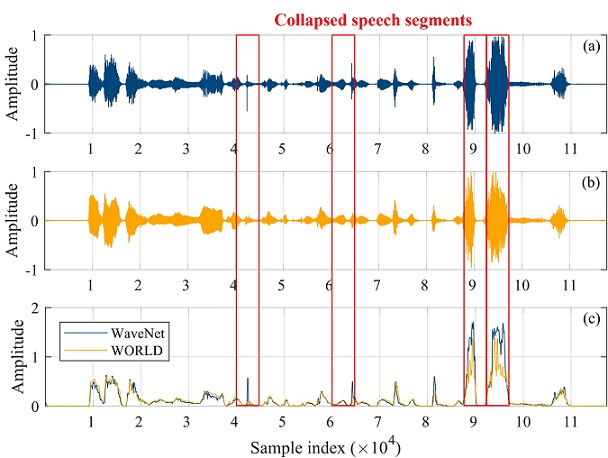
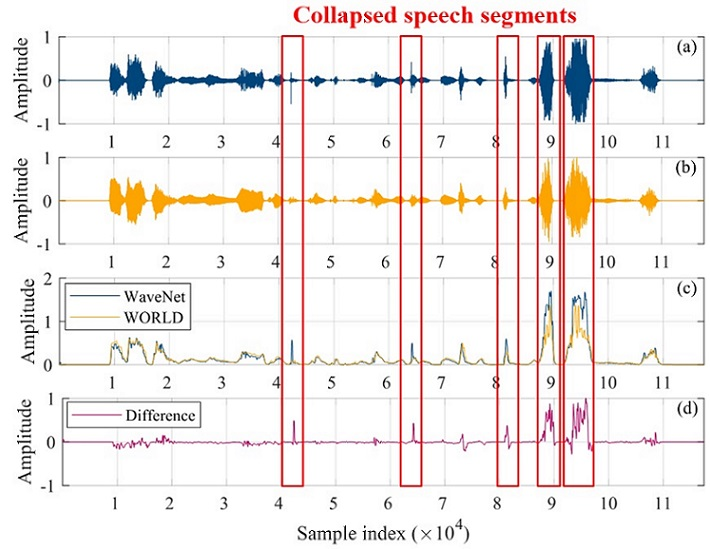
update figures and paper link

Changed region(s): [[0.0, 0.0, 1.0, 1.0]]

diff --git a/_site/index.html b/_site/index.html
@@ -32,22 +32,22 @@
       <div class="wrapper">
         <p>This page is the demo of</p>
 <ol>
-  <li>“Non-parallel voice conversion system with WaveNet vocoder and collapsed speech suppression technique” [paper]</li>
+  <li>“Non-parallel voice conversion system with WaveNet vocoder and collapsed speech suppression” [<a href="https://arxiv.org/abs/2003.11750">paper</a>]</li>
   <li>“Collapsed speech segment detection and suppression for WaveNet vocoder” [<a href="https://arxiv.org/abs/1804.11055">paper</a>] [code]</li>
   <li>“The NU non-parallel voice conversion system for the voice conversion challenge 2018” [<a href="https://easychair.org/publications/preprint/mzNP">paper</a>]</li>
 </ol>
 
 <h2 id="abstract"><strong>Abstract</strong></h2>
-<p align="justify"> We propose a non-parallel voice conversion (VC) system with a WaveNet (WN) vocoder and a collapsed speech suppression technique. The effectiveness of WN as a vocoder to generate high-fidelity speech waveforms on the basis of acoustic features has been confirmed in recent works. However, while combining the WN vocoder with the VC system, the distorted acoustic features, acoustic and temporal mismatches, and exposure bias problems usually lead to significant speech quality degradation especially making WN generate some very noisy speech segments called a collapsed speech. To tackle the problem, we take conventional vocoder generated speech as the reference speech to derive a linear-predictive-coding-distribution-constraint (LPCDC) to prevent WN from the collapsed speech problem. Furthermore, to ease the extra negative effects introduced by LPCDC, we propose a collapsed speech segment detector (CSSD) for only applying the LPCDC to the problematic segments to restrict the quality damage in a very short period. </p>
+<p align="justify"> We integrate a simple non-parallel voice conversion (VC) system with a WaveNet (WN) vocoder and a proposed collapsed speech suppression technique. The effectiveness of WN as a vocoder for generating high-fidelity speech waveforms on the basis of acoustic features has been confirmed in recent works. However, when combining the WN vocoder with a VC system, the distorted acoustic features, acoustic and temporal mismatches, and exposure bias usually lead to significant speech quality degradation, making WN generate some very noisy speech segments called collapsed speech. To tackle the problem, we take conventional-vocoder-generated speech as the reference speech to derive a linear predictive coding distribution constraint (LPCDC) to avoid the collapsed speech problem. Furthermore, to mitigate the negative effects introduced by the LPCDC, we propose a collapsed speech segment detector (CSSD) to ensure that the LPCDC is only applied to the problematic segments to limit the loss of quality to short periods. </p>
 <p>Testing corpus: <a href="http://www.vc-challenge.org/">VCC2018</a></p>
 
-<h2 id="collapse-speech-problem"><strong>Collapse speech problem</strong></h2>
+<h2 id="collapsed-speech-problem"><strong>Collapsed speech problem</strong></h2>
 <ul>
   <li><strong>Type I</strong>: white-noise-like segment</li>
   <li><strong>Type II</strong>: short impulse noise</li>
 </ul>
 <center><img src="res/figure/collapsed_speech_problem.jpg" /></center>
-<p>Figure (a): WN-generated waveforms w/ the collapsed speech<br />
+<p>Figure (a): WN-generated waveforms w/ collapsed speech.<br />
 Figure (b): WN-generated waveforms w/ LPCDC and CSSD.</p>
 
 <h2 id="collapsed-speech-segment-detection-cssd"><strong>Collapsed speech segment detection (CSSD)</strong></h2>
@@ -59,9 +59,10 @@ Figure (b): WN-generated waveforms w/ LPCDC and CSSD.</p>
   <li>Compared with the reference</li>
 </ul>
 <center><img src="res/figure/waveform_comparison.jpg" /></center>
-<p>Figure (a): WN-generated waveforms w/ the collapsed speech<br />
-Figure (b): WORLD-generated waveforms (reference)<br />
-Figure (c): Detected waveform shapes</p>
+<p>Figure (a): WN-generated waveforms w/ collapsed speech.<br />
+Figure (b): WORLD-generated waveforms (reference).<br />
+Figure (c): Extracted waveform envelopes.<br />
+Figure (d): Difference in waveform envelope.</p>
 
 <h2 id="lpc-distribution-constraint-lpcdc"><strong>LPC distribution constraint (LPCDC)</strong></h2>
 <ul>
@@ -115,12 +116,12 @@ Figure (c): Detected waveform shapes</p>
       <td style="text-align: center"><audio src="res/audio/CollapsedFree/VCC2SM3-VCC2TM1/DNN+WN/30021.wav" controls="" preload=""></audio></td>
     </tr>
     <tr>
-      <td style="text-align: left">DMDN + WN</td>
+      <td style="text-align: left"><strong>DMDN + WN</strong></td>
       <td style="text-align: center"><audio src="res/audio/CollapsedFree/VCC2SF4-VCC2TF1/DMDN+WN/30023.wav" controls="" preload=""></audio></td>
       <td style="text-align: center"><audio src="res/audio/CollapsedFree/VCC2SM3-VCC2TM1/DMDN+WN/30021.wav" controls="" preload=""></audio></td>
     </tr>
     <tr>
-      <td style="text-align: left">DMDN + WD</td>
+      <td style="text-align: left">DMDN + WORLD</td>
       <td style="text-align: center"><audio src="res/audio/CollapsedFree/VCC2SF4-VCC2TF1/DMDN+WD/30023.wav" controls="" preload=""></audio></td>
       <td style="text-align: center"><audio src="res/audio/CollapsedFree/VCC2SM3-VCC2TM1/DMDN+WD/30021.wav" controls="" preload=""></audio></td>
     </tr>
@@ -145,7 +146,7 @@ Figure (c): Detected waveform shapes</p>
       <td style="text-align: center"><audio src="res/audio/Collapsed/VCC2SM3-VCC2TM1/DMDN+WN/30033.wav" controls="" preload=""></audio></td>
     </tr>
     <tr>
-      <td style="text-align: left">DMDN + WD</td>
+      <td style="text-align: left">DMDN + WORLD</td>
       <td style="text-align: center"><audio src="res/audio/Collapsed/VCC2SF4-VCC2TF1/DMDN+WD/30005.wav" controls="" preload=""></audio></td>
       <td style="text-align: center"><audio src="res/audio/Collapsed/VCC2SM3-VCC2TM1/DMDN+WD/30033.wav" controls="" preload=""></audio></td>
     </tr>
@@ -155,7 +156,7 @@ Figure (c): Detected waveform shapes</p>
       <td style="text-align: center"><audio src="res/audio/Collapsed/VCC2SM3-VCC2TM1/DMDN+LPCDC/30033.wav" controls="" preload=""></audio></td>
     </tr>
     <tr>
-      <td style="text-align: left">Proposed</td>
+      <td style="text-align: left"><strong>DMDN + LPCDC + CSSD</strong></td>
       <td style="text-align: center"><audio src="res/audio/Collapsed/VCC2SF4-VCC2TF1/Proposed/30005.wav" controls="" preload=""></audio></td>
       <td style="text-align: center"><audio src="res/audio/Collapsed/VCC2SM3-VCC2TM1/Proposed/30033.wav" controls="" preload=""></audio></td>
     </tr>
@@ -202,12 +203,12 @@ Figure (c): Detected waveform shapes</p>
       <td style="text-align: center"><audio src="res/audio/CollapsedFree/VCC2SM4-VCC2TF2/DNN+WN/30019.wav" controls="" preload=""></audio></td>
     </tr>
     <tr>
-      <td style="text-align: left">DMDN + WN</td>
+      <td style="text-align: left"><strong>DMDN + WN</strong></td>
       <td style="text-align: center"><audio src="res/audio/CollapsedFree/VCC2SF3-VCC2TM2/DMDN+WN/30003.wav" controls="" preload=""></audio></td>
       <td style="text-align: center"><audio src="res/audio/CollapsedFree/VCC2SM4-VCC2TF2/DMDN+WN/30019.wav" controls="" preload=""></audio></td>
     </tr>
     <tr>
-      <td style="text-align: left">DMDN + WD</td>
+      <td style="text-align: left">DMDN + WORLD</td>
       <td style="text-align: center"><audio src="res/audio/CollapsedFree/VCC2SF3-VCC2TM2/DMDN+WD/30003.wav" controls="" preload=""></audio></td>
       <td style="text-align: center"><audio src="res/audio/CollapsedFree/VCC2SM4-VCC2TF2/DMDN+WD/30019.wav" controls="" preload=""></audio></td>
     </tr>
@@ -232,7 +233,7 @@ Figure (c): Detected waveform shapes</p>
       <td style="text-align: center"><audio src="res/audio/Collapsed/VCC2SM4-VCC2TF2/DMDN+WN/30005.wav" controls="" preload=""></audio></td>
     </tr>
     <tr>
-      <td style="text-align: left">DMDN + WD</td>
+      <td style="text-align: left">DMDN + WORLD</td>
       <td style="text-align: center"><audio src="res/audio/Collapsed/VCC2SF3-VCC2TM2/DMDN+WD/30017.wav" controls="" preload=""></audio></td>
       <td style="text-align: center"><audio src="res/audio/Collapsed/VCC2SM4-VCC2TF2/DMDN+WD/30005.wav" controls="" preload=""></audio></td>
     </tr>
@@ -242,7 +243,7 @@ Figure (c): Detected waveform shapes</p>
       <td style="text-align: center"><audio src="res/audio/Collapsed/VCC2SM4-VCC2TF2/DMDN+LPCDC/30005.wav" controls="" preload=""></audio></td>
     </tr>
     <tr>
-      <td style="text-align: left">Proposed</td>
+      <td style="text-align: left"><strong>DMDN + LPCDC + CSSD</strong></td>
       <td style="text-align: center"><audio src="res/audio/Collapsed/VCC2SF3-VCC2TM2/Proposed/30017.wav" controls="" preload=""></audio></td>
       <td style="text-align: center"><audio src="res/audio/Collapsed/VCC2SM4-VCC2TF2/Proposed/30005.wav" controls="" preload=""></audio></td>
     </tr>
@@ -251,12 +252,12 @@ Figure (c): Detected waveform shapes</p>
 
 <p><br /></p>
 <ul>
-  <li>Subjective results I: <strong>MOS</strong></li>
+  <li>Subjective evaluation I: <strong>MOS</strong> of naturalness.</li>
 </ul>
 <center><img src="res/figure/MOS.jpg" /></center>
 <p><br /></p>
 <ul>
-  <li>Subjective results II: <strong>Similarity</strong></li>
+  <li>Subjective evaluation II: <strong>Speaker similarity</strong></li>
 </ul>
 <center><img src="res/figure/Similarity.jpg" /></center>
 

diff --git a/index.md b/index.md
@@ -2,19 +2,19 @@
 layout: default
 ---
 This page is the demo of
-1. "Non-parallel voice conversion system with WaveNet vocoder and collapsed speech suppression technique" [paper]   
+1. "Non-parallel voice conversion system with WaveNet vocoder and collapsed speech suppression" [[paper](https://arxiv.org/abs/2003.11750)]   
 2. "Collapsed speech segment detection and suppression for WaveNet vocoder" [[paper](https://arxiv.org/abs/1804.11055)] [code]  
 3. "The NU non-parallel voice conversion system for the voice conversion challenge 2018" [[paper](https://easychair.org/publications/preprint/mzNP)]  
 
 ## **Abstract**  
-<p align="justify"> We propose a non-parallel voice conversion (VC) system with a WaveNet (WN) vocoder and a collapsed speech suppression technique. The effectiveness of WN as a vocoder to generate high-fidelity speech waveforms on the basis of acoustic features has been confirmed in recent works. However, while combining the WN vocoder with the VC system, the distorted acoustic features, acoustic and temporal mismatches, and exposure bias problems usually lead to significant speech quality degradation especially making WN generate some very noisy speech segments called a collapsed speech. To tackle the problem, we take conventional vocoder generated speech as the reference speech to derive a linear-predictive-coding-distribution-constraint (LPCDC) to prevent WN from the collapsed speech problem. Furthermore, to ease the extra negative effects introduced by LPCDC, we propose a collapsed speech segment detector (CSSD) for only applying the LPCDC to the problematic segments to restrict the quality damage in a very short period. </p>
+<p align="justify"> We integrate a simple non-parallel voice conversion (VC) system with a WaveNet (WN) vocoder and a proposed collapsed speech suppression technique. The effectiveness of WN as a vocoder for generating high-fidelity speech waveforms on the basis of acoustic features has been confirmed in recent works. However, when combining the WN vocoder with a VC system, the distorted acoustic features, acoustic and temporal mismatches, and exposure bias usually lead to significant speech quality degradation, making WN generate some very noisy speech segments called collapsed speech. To tackle the problem, we take conventional-vocoder-generated speech as the reference speech to derive a linear predictive coding distribution constraint (LPCDC) to avoid the collapsed speech problem. Furthermore, to mitigate the negative effects introduced by the LPCDC, we propose a collapsed speech segment detector (CSSD) to ensure that the LPCDC is only applied to the problematic segments to limit the loss of quality to short periods. </p>
 Testing corpus: [VCC2018](http://www.vc-challenge.org/)  
 
-## **Collapse speech problem**  
+## **Collapsed speech problem**  
 - **Type I**: white-noise-like segment
 - **Type II**: short impulse noise
 <center><img src="res/figure/collapsed_speech_problem.jpg" ></center>  
-Figure (a): WN-generated waveforms w/ the collapsed speech  
+Figure (a): WN-generated waveforms w/ collapsed speech.  
 Figure (b): WN-generated waveforms w/ LPCDC and CSSD.
 
 ## **Collapsed speech segment detection (CSSD)**  
@@ -22,9 +22,10 @@ Figure (b): WN-generated waveforms w/ LPCDC and CSSD.
 <center><img src="res/figure/waveform_envelope_extraction.jpg" ></center>  
 - Compared with the reference 
 <center><img src="res/figure/waveform_comparison.jpg" ></center>  
-Figure (a): WN-generated waveforms w/ the collapsed speech  
-Figure (b): WORLD-generated waveforms (reference)  
-Figure (c): Detected waveform shapes
+Figure (a): WN-generated waveforms w/ collapsed speech.  
+Figure (b): WORLD-generated waveforms (reference).  
+Figure (c): Extracted waveform envelopes.  
+Figure (d): Difference in waveform envelope.  
 
 ## **LPC distribution constraint (LPCDC)**  
 - Constrain the WN-predicted PMF with the LPC PMF
@@ -38,48 +39,48 @@ Figure (c): Detected waveform shapes
 ## **Speaker voice conversion (Non-parallel)**
 - **Intra** gender conversion
 
-| Vocoder       | Female (SF4->TF1)                                                                                   | Male (SM3->TM1)                                                                                     |
-|:--------------|:---------------------------------------------------------------------------------------------------:|:---------------------------------------------------------------------------------------------------:|
-| **Source**    | <audio src="res/audio/Natural/SF4/30005.wav" controls preload></audio>                              | <audio src="res/audio/Natural/SM3/30033.wav" controls preload></audio>                              |
-| **Target**    | <audio src="res/audio/Natural/TF1/30005.wav" controls preload></audio>                              | <audio src="res/audio/Natural/TM1/30033.wav" controls preload></audio>                              |
-| Target + WN   | <audio src="res/audio/WaveNet/TF1/30005.wav" controls preload></audio>                              | <audio src="res/audio/WaveNet/TM1/30033.wav" controls preload></audio>                              |
-|               |                                          **Collapsed-free**                                         |                                          **Collapsed-free**                                         |
-| DNN + WN      | <audio src="res/audio/CollapsedFree/VCC2SF4-VCC2TF1/DNN+WN/30023.wav" controls preload></audio>     | <audio src="res/audio/CollapsedFree/VCC2SM3-VCC2TM1/DNN+WN/30021.wav" controls preload></audio>     |
-| DMDN + WN     | <audio src="res/audio/CollapsedFree/VCC2SF4-VCC2TF1/DMDN+WN/30023.wav" controls preload></audio>    | <audio src="res/audio/CollapsedFree/VCC2SM3-VCC2TM1/DMDN+WN/30021.wav" controls preload></audio>    |
-| DMDN + WD     | <audio src="res/audio/CollapsedFree/VCC2SF4-VCC2TF1/DMDN+WD/30023.wav" controls preload></audio>    | <audio src="res/audio/CollapsedFree/VCC2SM3-VCC2TM1/DMDN+WD/30021.wav" controls preload></audio>    |
-| DMDN + LPCDC  | <audio src="res/audio/CollapsedFree/VCC2SF4-VCC2TF1/DMDN+LPCDC/30023.wav" controls preload></audio> | <audio src="res/audio/CollapsedFree/VCC2SM3-VCC2TM1/DMDN+LPCDC/30021.wav" controls preload></audio> |
-|               |                                            **Collapsed**                                            |                                            **Collapsed**                                            |
-| DNN + WN      | <audio src="res/audio/Collapsed/VCC2SF4-VCC2TF1/DNN+WN/30005.wav" controls preload></audio>         | <audio src="res/audio/Collapsed/VCC2SM3-VCC2TM1/DNN+WN/30033.wav" controls preload></audio>         |
-| DMDN + WN     | <audio src="res/audio/Collapsed/VCC2SF4-VCC2TF1/DMDN+WN/30005.wav" controls preload></audio>        | <audio src="res/audio/Collapsed/VCC2SM3-VCC2TM1/DMDN+WN/30033.wav" controls preload></audio>        |
-| DMDN + WD     | <audio src="res/audio/Collapsed/VCC2SF4-VCC2TF1/DMDN+WD/30005.wav" controls preload></audio>        | <audio src="res/audio/Collapsed/VCC2SM3-VCC2TM1/DMDN+WD/30033.wav" controls preload></audio>        |
-| DMDN + LPCDC  | <audio src="res/audio/Collapsed/VCC2SF4-VCC2TF1/DMDN+LPCDC/30005.wav" controls preload></audio>     | <audio src="res/audio/Collapsed/VCC2SM3-VCC2TM1/DMDN+LPCDC/30033.wav" controls preload></audio>     |
-| Proposed      | <audio src="res/audio/Collapsed/VCC2SF4-VCC2TF1/Proposed/30005.wav" controls preload></audio>       | <audio src="res/audio/Collapsed/VCC2SM3-VCC2TM1/Proposed/30033.wav" controls preload></audio>       |
+| Vocoder | Female (SF4->TF1) | Male (SM3->TM1) |
+|:--------|:-----------------:|:---------------:|
+| **Source** | <audio src="res/audio/Natural/SF4/30005.wav" controls preload></audio> | <audio src="res/audio/Natural/SM3/30033.wav" controls preload></audio> |
+| **Target** | <audio src="res/audio/Natural/TF1/30005.wav" controls preload></audio> | <audio src="res/audio/Natural/TM1/30033.wav" controls preload></audio> |
+| Target + WN | <audio src="res/audio/WaveNet/TF1/30005.wav" controls preload></audio> | <audio src="res/audio/WaveNet/TM1/30033.wav" controls preload></audio> |
+|  | **Collapsed-free** | **Collapsed-free** |
+| DNN + WN | <audio src="res/audio/CollapsedFree/VCC2SF4-VCC2TF1/DNN+WN/30023.wav" controls preload></audio> | <audio src="res/audio/CollapsedFree/VCC2SM3-VCC2TM1/DNN+WN/30021.wav" controls preload></audio> |
+| **DMDN + WN** | <audio src="res/audio/CollapsedFree/VCC2SF4-VCC2TF1/DMDN+WN/30023.wav" controls preload></audio> | <audio src="res/audio/CollapsedFree/VCC2SM3-VCC2TM1/DMDN+WN/30021.wav" controls preload></audio> |
+| DMDN + WORLD | <audio src="res/audio/CollapsedFree/VCC2SF4-VCC2TF1/DMDN+WD/30023.wav" controls preload></audio> | <audio src="res/audio/CollapsedFree/VCC2SM3-VCC2TM1/DMDN+WD/30021.wav" controls preload></audio> |
+| DMDN + LPCDC | <audio src="res/audio/CollapsedFree/VCC2SF4-VCC2TF1/DMDN+LPCDC/30023.wav" controls preload></audio> | <audio src="res/audio/CollapsedFree/VCC2SM3-VCC2TM1/DMDN+LPCDC/30021.wav" controls preload></audio> |
+|  | **Collapsed** | **Collapsed** |
+| DNN + WN | <audio src="res/audio/Collapsed/VCC2SF4-VCC2TF1/DNN+WN/30005.wav" controls preload></audio> | <audio src="res/audio/Collapsed/VCC2SM3-VCC2TM1/DNN+WN/30033.wav" controls preload></audio> |
+| DMDN + WN | <audio src="res/audio/Collapsed/VCC2SF4-VCC2TF1/DMDN+WN/30005.wav" controls preload></audio> | <audio src="res/audio/Collapsed/VCC2SM3-VCC2TM1/DMDN+WN/30033.wav" controls preload></audio> |
+| DMDN + WORLD | <audio src="res/audio/Collapsed/VCC2SF4-VCC2TF1/DMDN+WD/30005.wav" controls preload></audio> | <audio src="res/audio/Collapsed/VCC2SM3-VCC2TM1/DMDN+WD/30033.wav" controls preload></audio> |
+| DMDN + LPCDC | <audio src="res/audio/Collapsed/VCC2SF4-VCC2TF1/DMDN+LPCDC/30005.wav" controls preload></audio> | <audio src="res/audio/Collapsed/VCC2SM3-VCC2TM1/DMDN+LPCDC/30033.wav" controls preload></audio> |
+|  **DMDN + LPCDC + CSSD** | <audio src="res/audio/Collapsed/VCC2SF4-VCC2TF1/Proposed/30005.wav" controls preload></audio> | <audio src="res/audio/Collapsed/VCC2SM3-VCC2TM1/Proposed/30033.wav" controls preload></audio> |
 
 <br />  
 - **Inter** gender conversion
 
-| Vocoder       | Female (SF3->TM2)                                                                                   | Male (SM4->TF2)                                                                                     |
-|:--------------|:---------------------------------------------------------------------------------------------------:|:---------------------------------------------------------------------------------------------------:|
-| **Source**    | <audio src="res/audio/Natural/SF3/30017.wav" controls preload></audio>                              | <audio src="res/audio/Natural/SM4/30019.wav" controls preload></audio>                              |
-| **Target**    | <audio src="res/audio/Natural/TM2/30017.wav" controls preload></audio>                              | <audio src="res/audio/Natural/TF2/30019.wav" controls preload></audio>                              |
-| Target + WN   | <audio src="res/audio/WaveNet/TM2/30017.wav" controls preload></audio>                              | <audio src="res/audio/WaveNet/TF2/30019.wav" controls preload></audio>                              |
-|               |                                          **Collapsed-free**                                         |                                          **Collapsed-free**                                         |
-| DNN + WN      | <audio src="res/audio/CollapsedFree/VCC2SF3-VCC2TM2/DNN+WN/30003.wav" controls preload></audio>     | <audio src="res/audio/CollapsedFree/VCC2SM4-VCC2TF2/DNN+WN/30019.wav" controls preload></audio>     |
-| DMDN + WN     | <audio src="res/audio/CollapsedFree/VCC2SF3-VCC2TM2/DMDN+WN/30003.wav" controls preload></audio>    | <audio src="res/audio/CollapsedFree/VCC2SM4-VCC2TF2/DMDN+WN/30019.wav" controls preload></audio>    |
-| DMDN + WD     | <audio src="res/audio/CollapsedFree/VCC2SF3-VCC2TM2/DMDN+WD/30003.wav" controls preload></audio>    | <audio src="res/audio/CollapsedFree/VCC2SM4-VCC2TF2/DMDN+WD/30019.wav" controls preload></audio>    |
-| DMDN + LPCDC  | <audio src="res/audio/CollapsedFree/VCC2SF3-VCC2TM2/DMDN+LPCDC/30003.wav" controls preload></audio> | <audio src="res/audio/CollapsedFree/VCC2SM4-VCC2TF2/DMDN+LPCDC/30019.wav" controls preload></audio> |
-|               |                                            **Collapsed**                                            |                                            **Collapsed**                                            |
-| DNN + WN      | <audio src="res/audio/Collapsed/VCC2SF3-VCC2TM2/DNN+WN/30017.wav" controls preload></audio>         | <audio src="res/audio/Collapsed/VCC2SM4-VCC2TF2/DNN+WN/30005.wav" controls preload></audio>         |
-| DMDN + WN     | <audio src="res/audio/Collapsed/VCC2SF3-VCC2TM2/DMDN+WN/30017.wav" controls preload></audio>        | <audio src="res/audio/Collapsed/VCC2SM4-VCC2TF2/DMDN+WN/30005.wav" controls preload></audio>        |
-| DMDN + WD     | <audio src="res/audio/Collapsed/VCC2SF3-VCC2TM2/DMDN+WD/30017.wav" controls preload></audio>        | <audio src="res/audio/Collapsed/VCC2SM4-VCC2TF2/DMDN+WD/30005.wav" controls preload></audio>        |
-| DMDN + LPCDC  | <audio src="res/audio/Collapsed/VCC2SF3-VCC2TM2/DMDN+LPCDC/30017.wav" controls preload></audio>     | <audio src="res/audio/Collapsed/VCC2SM4-VCC2TF2/DMDN+LPCDC/30005.wav" controls preload></audio>     |
-| Proposed      | <audio src="res/audio/Collapsed/VCC2SF3-VCC2TM2/Proposed/30017.wav" controls preload></audio>       | <audio src="res/audio/Collapsed/VCC2SM4-VCC2TF2/Proposed/30005.wav" controls preload></audio>       |
+| Vocoder | Female (SF3->TM2) | Male (SM4->TF2) |
+|:--------|:-----------------:|:---------------:|
+| **Source** | <audio src="res/audio/Natural/SF3/30017.wav" controls preload></audio> | <audio src="res/audio/Natural/SM4/30019.wav" controls preload></audio> |
+| **Target** | <audio src="res/audio/Natural/TM2/30017.wav" controls preload></audio> | <audio src="res/audio/Natural/TF2/30019.wav" controls preload></audio> |
+| Target + WN | <audio src="res/audio/WaveNet/TM2/30017.wav" controls preload></audio> | <audio src="res/audio/WaveNet/TF2/30019.wav" controls preload></audio> |
+|  | **Collapsed-free** | **Collapsed-free** |
+| DNN + WN | <audio src="res/audio/CollapsedFree/VCC2SF3-VCC2TM2/DNN+WN/30003.wav" controls preload></audio> | <audio src="res/audio/CollapsedFree/VCC2SM4-VCC2TF2/DNN+WN/30019.wav" controls preload></audio> |
+| **DMDN + WN** | <audio src="res/audio/CollapsedFree/VCC2SF3-VCC2TM2/DMDN+WN/30003.wav" controls preload></audio> | <audio src="res/audio/CollapsedFree/VCC2SM4-VCC2TF2/DMDN+WN/30019.wav" controls preload></audio> |
+| DMDN + WORLD | <audio src="res/audio/CollapsedFree/VCC2SF3-VCC2TM2/DMDN+WD/30003.wav" controls preload></audio> | <audio src="res/audio/CollapsedFree/VCC2SM4-VCC2TF2/DMDN+WD/30019.wav" controls preload></audio> |
+| DMDN + LPCDC | <audio src="res/audio/CollapsedFree/VCC2SF3-VCC2TM2/DMDN+LPCDC/30003.wav" controls preload></audio> | <audio src="res/audio/CollapsedFree/VCC2SM4-VCC2TF2/DMDN+LPCDC/30019.wav" controls preload></audio> |
+|  | **Collapsed** | **Collapsed** |
+| DNN + WN | <audio src="res/audio/Collapsed/VCC2SF3-VCC2TM2/DNN+WN/30017.wav" controls preload></audio> | <audio src="res/audio/Collapsed/VCC2SM4-VCC2TF2/DNN+WN/30005.wav" controls preload></audio> |
+| DMDN + WN | <audio src="res/audio/Collapsed/VCC2SF3-VCC2TM2/DMDN+WN/30017.wav" controls preload></audio> | <audio src="res/audio/Collapsed/VCC2SM4-VCC2TF2/DMDN+WN/30005.wav" controls preload></audio> |
+| DMDN + WORLD | <audio src="res/audio/Collapsed/VCC2SF3-VCC2TM2/DMDN+WD/30017.wav" controls preload></audio> | <audio src="res/audio/Collapsed/VCC2SM4-VCC2TF2/DMDN+WD/30005.wav" controls preload></audio> |
+| DMDN + LPCDC | <audio src="res/audio/Collapsed/VCC2SF3-VCC2TM2/DMDN+LPCDC/30017.wav" controls preload></audio> | <audio src="res/audio/Collapsed/VCC2SM4-VCC2TF2/DMDN+LPCDC/30005.wav" controls preload></audio> |
+| **DMDN + LPCDC + CSSD** | <audio src="res/audio/Collapsed/VCC2SF3-VCC2TM2/Proposed/30017.wav" controls preload></audio> | <audio src="res/audio/Collapsed/VCC2SM4-VCC2TF2/Proposed/30005.wav" controls preload></audio> |
    
 <br />  
-- Subjective results I: **MOS**
+- Subjective evaluation I: **MOS** of naturalness.
 <center><img src="res/figure/MOS.jpg" ></center>  
 <br />  
-- Subjective results II: **Similarity**
+- Subjective evaluation II: **Speaker similarity**
 <center><img src="res/figure/Similarity.jpg" ></center>
 
 <br /> 
